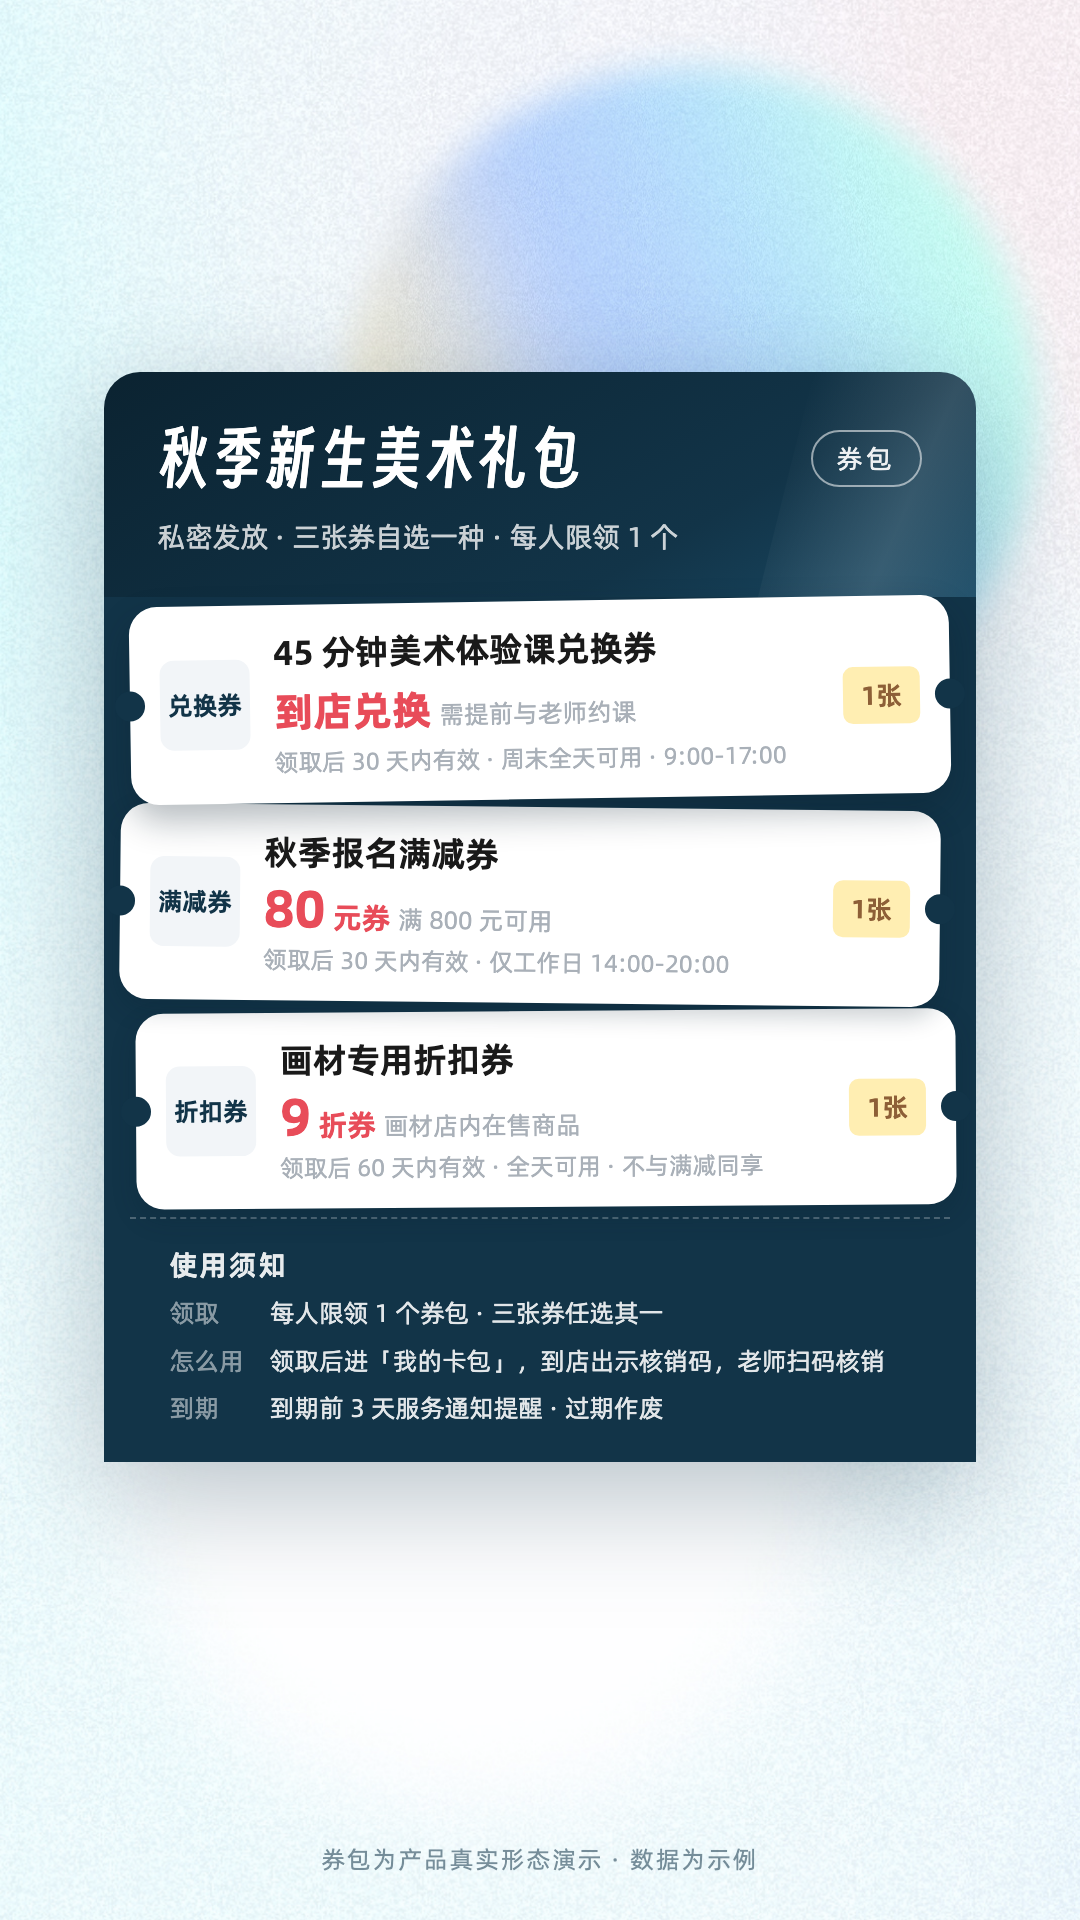
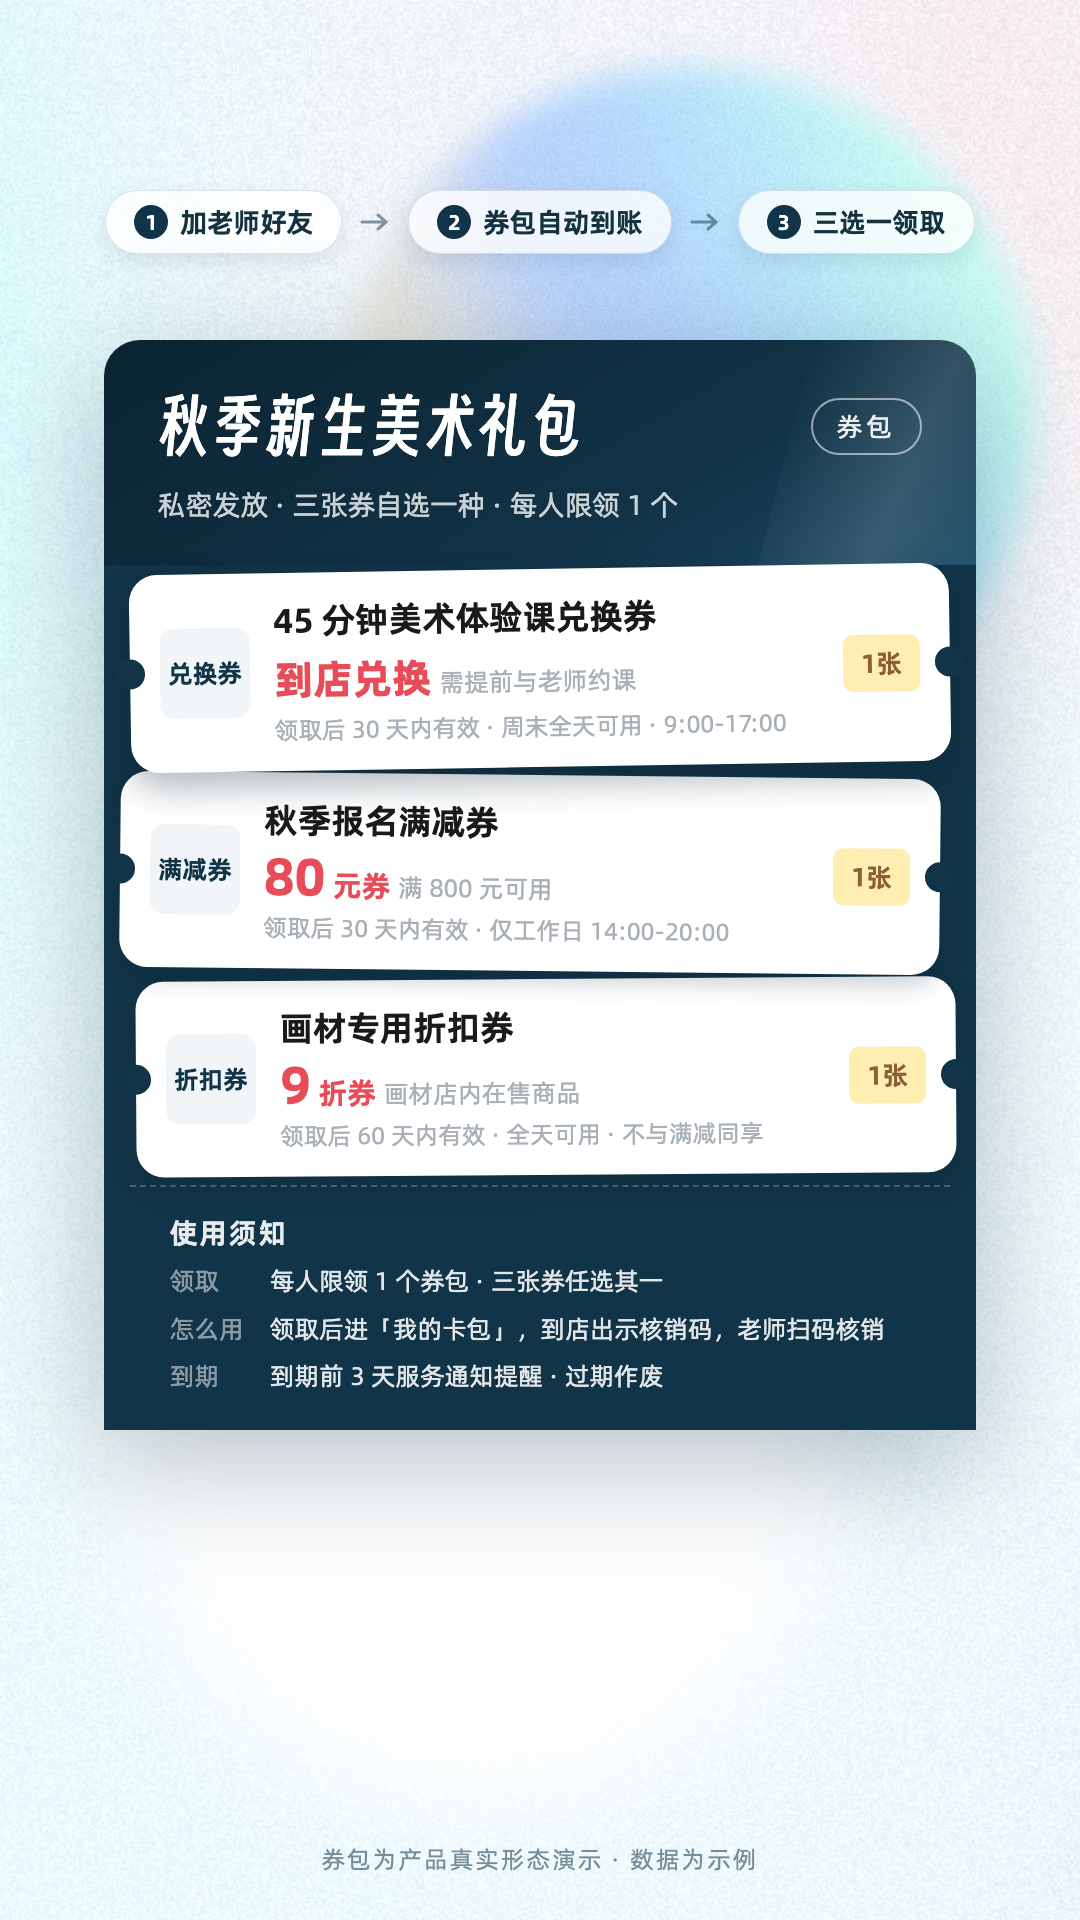
feat(bench): 标杆屏 rev4——顶部加「券到账路径」三步条
- 补信息链缺口：包讲'有什么'，路径条讲'怎么到手'（加好友自动发券=真实能力，红线泛称口径）
- 白胶囊+深色序号，轻压在背景带上不抢主体；与须知语义不重复
- 底部空白为成片字幕道，刻意不填

Changed region(s): [[0.0917, 0.0938, 0.9167, 0.7812], [0.1222, 0.0938, 0.3056, 0.125]]

diff --git a/video/src/bench/BundleOpenBench.tsx b/video/src/bench/BundleOpenBench.tsx
@@ -37,9 +37,41 @@ export const BundleOpenBench: React.FC = () => {
       {/* 轻压一层白雾保证暗色小字可读（呼吸微动） */}
       <AbsoluteFill style={{ background: 'rgba(250,252,255,0.22)', opacity: 0.9 + glow * 0.1 }} />
 
+      {/* ── 顶部路径条：券怎么到顾客手上（真实能力「加好友自动发券」泛称口径）── */}
+      {(() => {
+        const enter = spring({ frame: f - 20, fps: FPS, config: { damping: 22, stiffness: 180 } });
+        const steps = ['加老师好友', '券包自动到账', '三选一领取'];
+        return (
+          <div style={{
+            position: 'absolute', left: 0, right: 0, top: 190 + (1 - enter) * 30,
+            display: 'flex', alignItems: 'center', justifyContent: 'center', gap: 18,
+            opacity: enter,
+          }}>
+            {steps.map((t, i) => (
+              <React.Fragment key={t}>
+                {i > 0 && (
+                  <svg width="30" height="20" viewBox="0 0 30 20"><path d="M2 10 H24 M18 3 L26 10 L18 17" stroke="rgba(18,52,72,0.5)" strokeWidth="3" fill="none" strokeLinecap="round" /></svg>
+                )}
+                <div style={{
+                  display: 'flex', alignItems: 'center', gap: 12, background: 'rgba(255,255,255,0.78)',
+                  border: '1.5px solid rgba(18,52,72,0.14)', borderRadius: 999, padding: '12px 28px',
+                  boxShadow: '0 8px 20px rgba(18,52,72,0.10)',
+                }}>
+                  <span style={{
+                    width: 34, height: 34, borderRadius: '50%', background: THEME, color: '#fff',
+                    fontSize: 21, fontWeight: 700, display: 'flex', alignItems: 'center', justifyContent: 'center', flexShrink: 0,
+                  }}>{i + 1}</span>
+                  <span style={{ fontSize: 27, fontWeight: 600, color: '#16323F' }}>{t}</span>
+                </div>
+              </React.Fragment>
+            ))}
+          </div>
+        );
+      })()}
+
       {/* ── 券包主体：一个物体，整体入场 + 落影浮起 ── */}
       <div style={{
-        position: 'absolute', left: 104, right: 104, top: 372,
+        position: 'absolute', left: 104, right: 104, top: 340,
         transform: `translateY(${(1 - lift) * 90}px)`, opacity: lift,
         filter: 'drop-shadow(0 34px 60px rgba(18,52,72,0.30))',
       }}>
